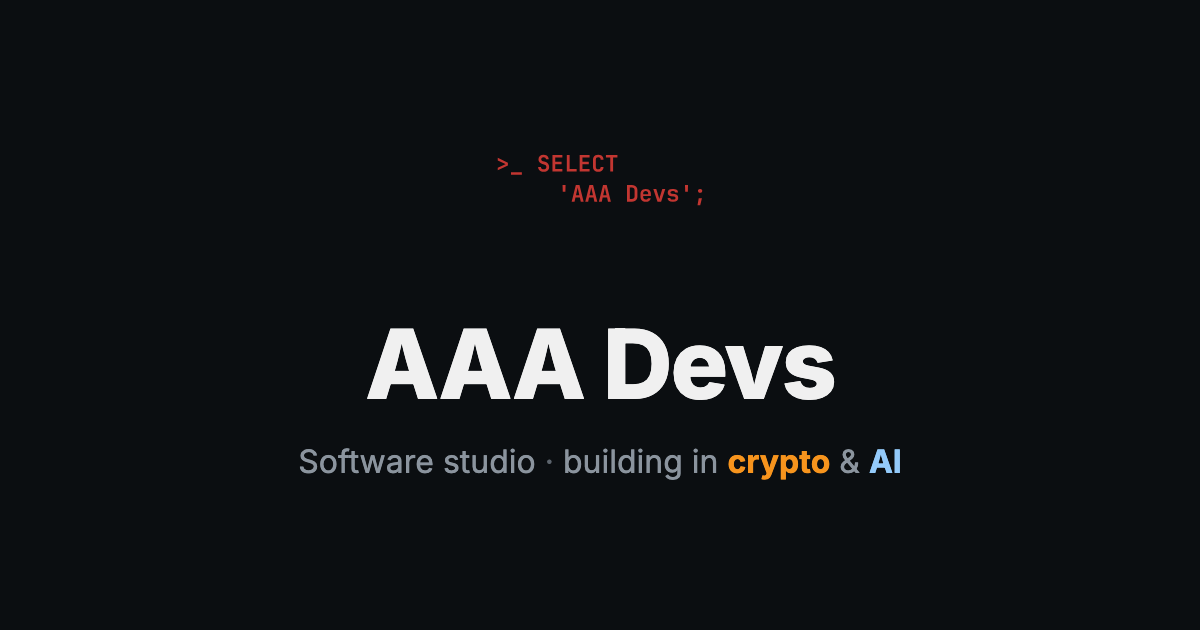
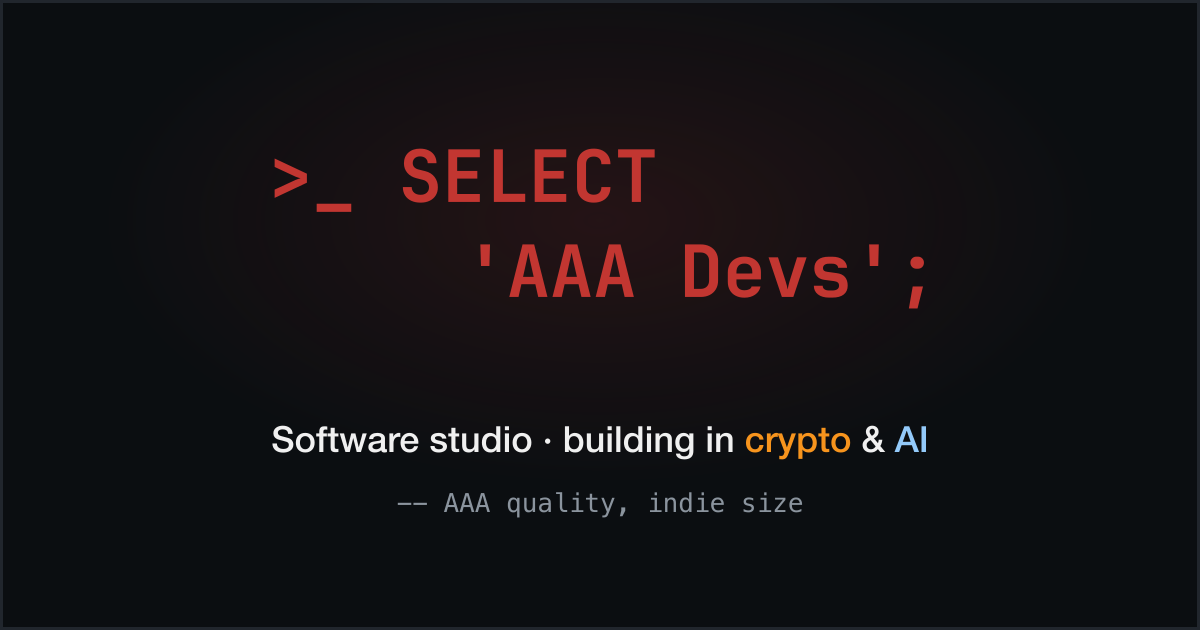
chore(seo): the tech pass — fonts, entity layer, per-page meta, SQL og-image
Self-hosted Inter + JetBrains Mono via @fontsource-variable with latin
woff2 preloads (the render-blocking Google Fonts request is gone; font-mono
now serves the house mono); Organization JSON-LD with alternateName aaadevs
+ sameAs (X / GitHub / CMC — the entity half of the identity loop) +
WebSite; og:site_name and twitter:site/creator; per-page descriptions (the
audit's byte-identical-everywhere fix) and a keyword-carrying index title;
the phantom Accounts section leaves the Terms (the site has no accounts —
it contradicted the privacy page); legal contacts move to hello@; the
og-image mirrors the homepage — the query wordmark on the ink field.
Verified in dist: googleapis 0, preloads in, 2 schemas, 3 distinct
descriptions, 0 shipped comments, sitemap 3 urls.

diff --git a/src/styles/global.css b/src/styles/global.css
@@ -8,10 +8,14 @@
   --color-accent: #c23631;
   --color-accent-hover: #e04b45;
   --color-border: #21262d;
+
+  /* self-hosted via @fontsource-variable — the Variable suffix is the family name;
+     --font-mono makes Tailwind's font-mono utility serve the house mono */
+  --font-mono: "JetBrains Mono Variable", ui-monospace, "SFMono-Regular", Menlo, monospace;
 }
 
 body {
-  font-family: "Inter", system-ui, sans-serif;
+  font-family: "Inter Variable", system-ui, sans-serif;
   background-color: var(--color-bg);
   color: var(--color-text);
 }
